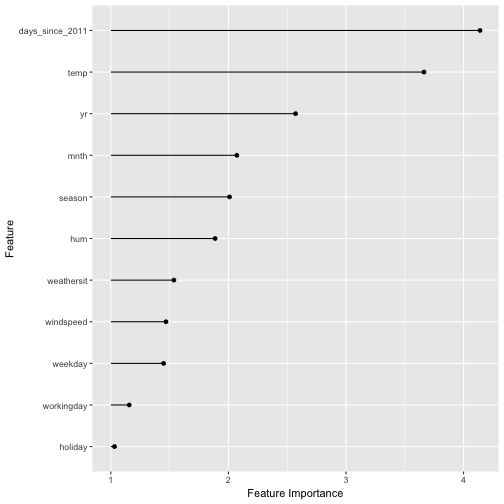
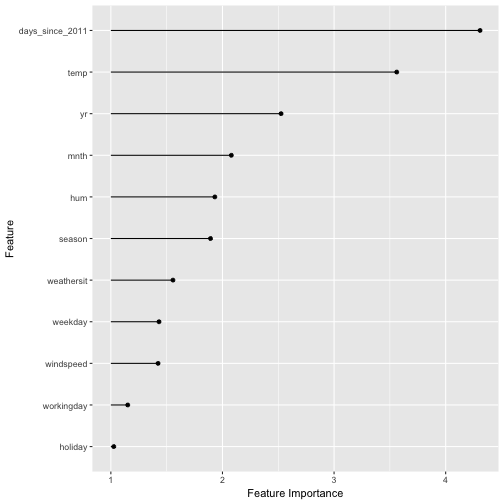
removes aligned

diff --git a/manuscript/04.3-interpretable-logistic.md b/manuscript/04.3-interpretable-logistic.md
@@ -1,4 +1,49 @@
 
+
+
+## Logistic Regression {#logistic}
+Logistic regression is the linear regression model made fit for classification problems.
+
+### What's Wrong with Linear Regression Models for Classification?
+The  linear regression model works well in regression setups, but fails in the classification case.
+Why is that?
+In case of two classes, you could label one of the classes with 0 and the other with 1 and use a linear model on it and it would estimate the weights for you.
+There are just a few problems with that approach:
+
+- A linear model does not output probabilities, but it treats the classes as numbers (0 and 1) and fits the best hyperplane (if you have one feature, it's a line) that minimises the distances between the points and the hyperplane.
+So it simply interpolates between the points, but there is no meaning in it and you cannot interpret it as probabilities.
+- Also a linear model will extrapolate the features and give you values below zero and above one, which are not meaningful and should tell you that there might be a more clever approach to classification.
+- Since the predicted outcome is not a probability but some linear interpolation between points there is no meaningful threshold at which you can distinguish one class from the other.
+A good illustration of this issue was given on [Stackoverflow](https://stats.stackexchange.com/questions/22381/why-not-approach-classification-through-regression), which I reproduced in Figure \@ref(fig:linear-class-threshold)
+- Linear models don't extend to classification problems with multiple classes.
+You would have to start labeling the next class with a 2, then 3 and so on.
+The classes might not have any meaningful order, but the linear model would force a weird structure on the relationship between the features and your class predictions.
+So for a feature with a positive weight, the higher the value of that feature the more it contributes to the prediction of a class with a higher number, even if classes that happened to get a similar number are not related at all.
+
+
+![An illustration why linear regression does not work well in a binary classification setting. A linear model is fitted on artificial data for classifying a tumour as malignant (1) or benign (0), dependant on the size of the tumour. Each point is a tumour, the x-axis shows the size of the tumour, the y-axis the malignancy, points are slightly jittered to reduce over-plotting. The lines display the fitted curve from a linear model. In the data setting on the left, we can use 0.5 as a threshold for the predicted outcome of the linear model for separating benign from malignant tumours. After introducing a few more malignant tumour cases, especially with larger tumour sizes, the regression line shifts and a threshold of 0.5 does not separate the classes any longer.](images/linear-class-threshold-1.png)
+
+
+### Logistic Regression
+A solution for classification is logistic regression.
+Instead of fitting a straight line or hyperplane, the logistic regression model uses a non-linear function, the logistic function to squeeze the output of a linear equation between 0 and 1.
+The logistic function is defined as:
+{$$}\text{logistic}(\eta)=\frac{1}{1+exp(-\eta)}{/$$}
+And it looks like shown in Figure \@ref(fig:logistic-function).
+
+![The logistic function. It only outputs numbers between 0 and 1. At input 0 it outputs 0.5.](images/logistic-function-1.png)
+
+The step from linear regression models to logistic regression is kind of straightforward. In the linear regression model we modelled the relationship between the outcome and the features with a linear equation:
+{$$}\hat{y}_{i}=\beta_{0}+\beta_{1}x_{i,1}+\ldots+\beta_{p}x_{i,p}{/$$}
+For the classification we prefer probabilities, which are between 0 and 1, so we wrap the right side of the equation into the logistic regression function and like that force the output to only take on values between 0 and 1.
+{$$}P(y_{i}=1)=\frac{1}{1+exp(-(\beta_{0}+\beta_{1}x_{i,1}+\ldots+\beta_{p}x_{i,p}))}{/$$}
+
+Let's revisit the tumour size example from Figure \@ref(fig:linear-class-threshold) again.
+But now instead of the linear regression model, we use the logistic regression model:
+
+![The logistic regression model successfully finds the correct decision boundary to distinguish between malignant and benign tumours dependent on the size of the tumour in this example. The blue line is the logistic function shifted and squeezed so that it fits the data.](images/logistic-class-threshold-1.png)
+It works better with logistic regression and we can use 0.5 as a threshold in both cases. Including the additional points does not affect the estimated curve much.
+
 ### Interpretation
 The interpretation of the logistic regression weights differs from the linear regression case, because in logistic regression the outcome is a probability between 0 and 1, and the weights don't affect the probability linearly, but are squeezed through the logistic function.
 That's why we need to reformulate the equation for the interpretation, so that there is only the linear term left on the right side of the formula.
@@ -21,6 +66,50 @@ $$\frac{odds_{i,x_j+1}}{odds_i}=\frac{exp\left(\beta_{0}+\beta_{1}x_{i,1}+\ldots
 
 Using the rule that {$$}\frac{exp(a)}{exp(b)}=exp(a-b){/$$} gives us:
 
+{$$}\frac{odds_{i,x_j+1}}{odds_i}=exp\left(\beta_{0}+\beta_{1}x_{i,1}\ldots\beta_{j}(x_{i,j}+1)+\ldots+\beta_{i,p}x_{i,p}\right)-exp\left(\beta_{0}+\beta_{1}x_{i,1}+\ldots+\beta_{j}x_{i,j}+\ldots+\beta_{p}x_{i,p}\right){/$$}
 
+And then we can remove a lot of terms from the equation, which is convenient:
+{$$}\frac{odds_{i,x_j+1}}{odds_i}=exp\left(\beta_{j}(x_{i,j}+1)-\beta_{j}x_{i,j}\right)=exp\left(\beta_j\right){/$$}
 
+And we end up with something simple like {$$}\exp(\beta_j){/$$}.
+So a change of {$$}x_j{/$$} by one unit changes the odds ratio (multiplicatively) by a factor of {$$}\exp(\beta_j){/$$}.
+We could also interpret it this way:
+A change in {$$}x_j{/$$} by one unit changes the log odds ratio by {$$}\beta_j{/$$} units, but most people do the former because thinking about the {$$}log(){/$$} of something is known to be hard on the brain.
+Interpreting the odds ratio already needs a bit of getting used to.
+For example if you have odds of 2, it means that the probability for {$$}y_i=1{/$$} is twice as big as {$$}y_i=0{/$$}.
+If you have a {$$}\beta_j{/$$} (=odds ratio) of {$$}0.7{/$$}, then an increase in the respective {$$}x_j{/$$} by one unit multiplies the odds by {$$}\exp(0.7)\approx2{/$$} and the odds change to 4.
+But usually you don't deal with the odds and only interpret the {$$}\beta{/$$}'s as the odds ratios.
+Because for actually calculating the odds you would need to set a value for each feature {$$}x_j{/$$}, which only makes sense if you want to look at one specific instance of your dataset.
 
+Here are the interpretations for the logistic regression model with different feature types:
+
+- Numerical feature: For an increase of one unit of the feature {$$}x_{j}{/$$}, the estimated odds change (multiplicatively) by a factor of {$$}\exp(\beta_{j}){/$$}
+- Binary categorical feature: One of the two values of the feature is the reference level (in some languages the one that was coded in 0).
+A change of the feature {$$}x_{j}{/$$} from the reference level to the other level changes the estimated odds (multiplicatively) by a factor of {$$}\exp(\beta_{j}){/$$}
+- Categorical feature with many levels: One solution to deal with many possible feature values is to one-hot-encode them, meaning each level gets its own column.
+From a categorical feature with L levels, you only need L-1 columns, otherwise it is over-parameterised. The interpretation for each level is then according to the binary features.
+- Intercept {$$}\beta_{0}{/$$}: Given all numerical features are zero and the categorical features are at the reference level, the estimated odds are {$$}\exp(\beta_{0}){/$$}.
+The interpretation of {$$}\beta_{0}{/$$} is usually not relevant.
+
+### Example
+We use the logistic regression model to predict cervical cancer given some risk factors.
+The data are described in Chapter \@ref(cervical)
+
+|                            | Weight| Odds ratio| Std. Error|
+|:---------------------------|------:|----------:|----------:|
+|Intercept                   |   2.91|      18.36|       0.32|
+|Hormonal contraceptives y/n |   0.12|       1.12|       0.30|
+|Smokes y/n                  |  -0.26|       0.77|       0.37|
+|Num. of pregnancies         |  -0.04|       0.96|       0.10|
+|Num. of diagnosed STDs      |  -0.82|       0.44|       0.33|
+|Intrauterine device y/n     |  -0.62|       0.54|       0.40|
+
+Interpretation of a numerical feature ('Num. of diagnosed STDs'):
+An increase of the number of diagnosed STDs (sexually transmitted diseases) changes (decreases) the odds for cancer vs. no cancer multiplicatively by 0.44, given all other features stay the same.
+Keep in mind that correlation does not imply causation.
+No recommendation here to get STDs.
+
+Interpretation of a categorical feature ('Hormonal contraceptives y/n'):
+For women with hormonal contraceptives, the odds for cancer vs. no cancer are by a factor of 1.12 higher, compared to women without hormonal contraceptives, given all other features stay the same.
+
+Again as in the linear models, the interpretations are always coming with the clause that 'all other features stay the same'.

diff --git a/manuscript/04.5-interpretable-rulefit.md b/manuscript/04.5-interpretable-rulefit.md
@@ -42,36 +42,36 @@ If {$$}x_j{/$$} increases by one unit, the predicted outcome changes by {$$}\bet
 
 In this example, we use RuleFit to predict the number of bike rentals on a given day (see Chapter \@ref(bike-data)).
 The rules generated for the bike rental prediction task can be seen in Figure \@ref(fig:rulefit-example).
-The most important rule was: "days_since_2011 > 111 & weathersit %in% c("GOOD", "MISTY")" and the associated weight is 591.6.
+The most important rule was: "days_since_2011 > 111 & weathersit %in% c("GOOD", "MISTY")" and the associated weight is 689.4.
 The interpretation is:
-If days_since_2011 > 111 & weathersit %in% c("GOOD", "MISTY"), then the predicted number of bike rentals increases by 591.6, given all other features values stay fixed.
-In total,  360 such rules were created from the original 8 features.
+If days_since_2011 > 111 & weathersit %in% c("GOOD", "MISTY"), then the predicted number of bike rentals increases by 689.4, given all other features values stay fixed.
+In total,  332 such rules were created from the original 8 features.
 Quite a lot!
-But thanks to Lasso, only 39 of the 360 got a weight different from zero.
+But thanks to Lasso, only 40 of the 332 got a weight different from zero.
 
 
-|Description                                                                    | Weight| Importance| Std. Dev|
-|:------------------------------------------------------------------------------|------:|----------:|--------:|
-|days_since_2011 > 111 & weathersit %in% c("GOOD", "MISTY")                     |  591.6|      225.7|     0.38|
-|temp > 11.544151 & days_since_2011 > 554                                       |  580.8|      212.4|     0.37|
-|season %in% c("SUMMER", "FALL", "WINTER") & weathersit %in% c("GOOD", "MISTY") |  566.6|      252.0|     0.44|
-|temp <= 13.776651 & days_since_2011 <= 368                                     | -506.0|      216.9|     0.43|
-|days_since_2011 > 424 & temp > 15.6175                                         |  448.9|      195.3|     0.44|
-|days_since_2011 > 429 & temp > 4.494151                                        |  397.5|      194.5|     0.49|
-|temp <= 14.09 & temp <= 5.081651                                               | -323.8|      110.9|     0.34|
-|temp > 7.745 & days_since_2011 > 364                                           |  301.0|      147.0|     0.49|
-|temp <= 11.583349 & season %in% c("SPRING", "SUMMER")                          | -239.5|      104.9|     0.44|
-|temp <= 9.664151                                                               | -232.2|      108.2|     0.47|
-|days_since_2011 > 111 & weathersit %in% c("GOOD")                              |  218.3|      108.7|     0.50|
-|days_since_2011 > 105 & weathersit %in% c("GOOD", "MISTY")                     |  198.5|       74.3|     0.37|
-|days_since_2011 > 448 & weathersit %in% c("MISTY", "RAIN/SNOW/STORM")          | -195.5|       66.7|     0.34|
-|temp <= 13.776651 & temp <= 3.906651                                           | -192.9|       55.3|     0.29|
-|days_since_2011 > 430 & temp > 8.0975                                          |  158.0|       75.7|     0.48|
-|days_since_2011 > 411 & weathersit %in% c("GOOD")                              |  157.5|       71.2|     0.45|
-|temp > 8.184356 & days_since_2011 > 391                                        |  150.2|       72.7|     0.48|
-|temp <= 15.774151                                                              | -138.7|       69.4|     0.50|
-|days_since_2011 > 440 & temp > 11.544151                                       |   98.3|       45.2|     0.46|
-|days_since_2011 > 426 & temp > 4.494151                                        |   92.0|       45.1|     0.49|
+|Description                                                           | Weight| Importance| Std. Dev|
+|:---------------------------------------------------------------------|------:|----------:|--------:|
+|days_since_2011 > 111 & weathersit %in% c("GOOD", "MISTY")            |  689.4|      263.0|     0.38|
+|temp > 6.958267 & weathersit %in% c("GOOD", "MISTY")                  |  664.7|      280.4|     0.42|
+|temp <= 13.9725 & days_since_2011 <= 368                              | -567.6|      244.7|     0.43|
+|days_since_2011 > 430 & temp > 5.081651                               |  553.8|      270.8|     0.49|
+|temp > 15.663466 & days_since_2011 > 432                              |  495.9|      215.4|     0.43|
+|temp <= 6.954554 & temp > 3.945849                                    |  425.9|      135.9|     0.32|
+|temp > 12.719151 & days_since_2011 > 517                              |  388.3|      155.7|     0.40|
+|days_since_2011 > 440 & temp > 11.544151                              |  346.8|      159.4|     0.46|
+|days_since_2011 > 430 & temp <= 5.081651                              | -309.8|       39.4|     0.13|
+|temp > 11.583349 & weathersit %in% c("GOOD", "MISTY")                 |  290.6|      142.7|     0.49|
+|temp <= 12.758349 & days_since_2011 <= 387                            | -234.1|      101.9|     0.44|
+|temp <= 13.228349 & season %in% c("SPRING")                           | -232.0|       97.3|     0.42|
+|season %in% c("SUMMER", "FALL", "WINTER") & weathersit %in% c("GOOD") |  208.4|      104.2|     0.50|
+|temp > 8.184356 & days_since_2011 > 427                               |  205.9|       98.5|     0.48|
+|temp <= 16.0875                                                       | -164.8|       82.4|     0.50|
+|temp <= 9.664151                                                      | -158.1|       73.6|     0.47|
+|temp > 9.664151 & days_since_2011 > 397                               |  157.6|       74.7|     0.47|
+|temp <= 7.98 & season %in% c("SPRING", "SUMMER")                      | -139.9|       54.8|     0.39|
+|days_since_2011 > 111 & weathersit %in% c("GOOD")                     |  122.3|       60.9|     0.50|
+|temp <= 12.993349 & weathersit %in% c("RAIN/SNOW/STORM")              | -118.0|       14.4|     0.12|
 Computing the global feature importances reveals that temperature and the time trend are the most important features, see Figure \@ref(fig:rulefit-importance).
 The feature importance measurement includes the importance of the raw feature term and all the decision rules the feature appears in.
 

diff --git a/manuscript/05.6-agnostic-shapley.md b/manuscript/05.6-agnostic-shapley.md
@@ -94,25 +94,25 @@ Figure \@ref(fig:shapley-cervical-plot) visualizes the Shapley values, that are 
 |STDs..Time.since.first.diagnosis |  1.00|
 |STDs..Time.since.last.diagnosis  |  1.00|
 
-![Feature value contributions for woman 326 in the cervical cancer dataset. With a prediction of 0.50, this woman's cancer probability is 0.47 above the average prediction of 0.03. The feature value that increased the probability the most is the number of diagnosed STDs. The feature contributions sum up to the difference of actual and average prediction (0.47).](images/shapley-cervical-plot-1.png)
+![Feature value contributions for woman 326 in the cervical cancer dataset. With a prediction of 0.43, this woman's cancer probability is 0.41 above the average prediction of 0.02. The feature value that increased the probability the most is the number of diagnosed STDs. The feature contributions sum up to the difference of actual and average prediction (0.41).](images/shapley-cervical-plot-1.png)
 
 |feature                          |        phi|
 |:--------------------------------|----------:|
-|Age                              |  0.0293333|
-|First.sexual.intercourse         |  0.0646667|
+|Age                              |  0.0153333|
+|First.sexual.intercourse         |  0.0643333|
 |Hormonal.Contraceptives          |  0.0110000|
-|Hormonal.Contraceptives..years.  |  0.0476667|
-|IUD                              |  0.0016667|
-|IUD..years.                      |  0.0013333|
-|Num.of.pregnancies               |  0.0120000|
-|Number.of.sexual.partners        |  0.0533333|
-|STDs                             |  0.1080000|
-|STDs..Number.of.diagnosis        |  0.0656667|
-|STDs..Time.since.first.diagnosis |  0.0070000|
-|STDs..Time.since.last.diagnosis  |  0.0033333|
-|STDs..number.                    |  0.0843333|
-|Smokes                           | -0.0026667|
-|Smokes..years.                   | -0.0006667|
+|Hormonal.Contraceptives..years.  |  0.0310000|
+|IUD                              | -0.0013333|
+|IUD..years.                      |  0.0000000|
+|Num.of.pregnancies               |  0.0183333|
+|Number.of.sexual.partners        |  0.0343333|
+|STDs                             |  0.0730000|
+|STDs..Number.of.diagnosis        |  0.1426667|
+|STDs..Time.since.first.diagnosis |  0.0020000|
+|STDs..Time.since.last.diagnosis  | -0.0003333|
+|STDs..number.                    |  0.0320000|
+|Smokes                           |  0.0013333|
+|Smokes..years.                   |  0.0003333|
 
 
 
@@ -140,22 +140,22 @@ Figure \@ref(fig:shapley-bike-plot) shows the explanations created for the  Rand
 |windspeed       |16.62605        |
 |days_since_2011 |284             |
 
-![Feature value contributions for instance 285. With a predicted 2521 rented bikes, this day is -1985 below the average prediction of 4506. The feature values that had the most negative effects were the weather situation, humidity and the time trend (years since 2011). The temperature on that day had a positive effect compared to the average prediction. The feature contributions sum up to the difference of actual and average prediction (-1985).](images/shapley-bike-plot-1.png)
+![Feature value contributions for instance 285. With a predicted 2406 rented bikes, this day is -2100 below the average prediction of 4507. The feature values that had the most negative effects were the weather situation, humidity and the time trend (years since 2011). The temperature on that day had a positive effect compared to the average prediction. The feature contributions sum up to the difference of actual and average prediction (-2100).](images/shapley-bike-plot-1.png)
 
 
 |feature         |     phi|
 |:---------------|-------:|
-|days_since_2011 | -318.64|
-|holiday         |    0.00|
-|hum             | -971.22|
-|mnth            |   88.09|
-|season          |   47.20|
-|temp            |  479.99|
-|weathersit      | -652.07|
-|weekday         |   -1.28|
-|windspeed       |  -32.66|
-|workingday      |    5.97|
-|yr              | -265.16|
+|days_since_2011 | -704.18|
+|holiday         |    0.31|
+|hum             | -982.84|
+|mnth            |  -12.53|
+|season          |   13.64|
+|temp            |  261.10|
+|weathersit      | -864.92|
+|weekday         |  -77.35|
+|windspeed       |  -55.25|
+|workingday      |   -0.69|
+|yr              | -132.19|
 
 Be careful to interpret the Shapley value correctly:
 The Shapley value is the average contribution of a feature value towards the prediction in different coalitions.
@@ -171,7 +171,7 @@ Skip this part straight to 'Advantages and Disadvantages' if you are not interes
 We are interested in the effect each feature has on the prediction of a data point.
 In a linear model it is easy to calculate the individual effects.
 Here's how a linear model prediction looks like for one data instance:
-$$\hat{f}(x_{i\cdot}) = \hat{f}(x_{i1},\ldots,x_{ip})=\beta_0+\beta_{1}x_{i1}+\ldots+\beta_{p}x_{ip}$$
+{$$}\hat{f}(x_{i\cdot})=\hat{f}(x_{i1},\ldots,x_{ip})=\beta_0+\beta_{1}x_{i1}+\ldots+\beta_{p}x_{ip}{/$$}
 where {$$}x_{i\cdot}{/$$} is the instance for which we want to compute the feature effects.
 Each {$$}x_{ij}{/$$} is a feature value, with {$$}j\in\{1,\ldots,p\}{/$$}.
 The {$$}\beta_j{/$$} are the weights corresponding to {$$}x_{ij}{/$$}.

diff --git a/manuscript/05.4-agnostic-permfeatimp.md b/manuscript/05.4-agnostic-permfeatimp.md
@@ -47,12 +47,12 @@ Features that are associated model error increase by a factor of 1 (= no change)
 
 |feature                          | original.error| permutation.error| importance|
 |:--------------------------------|--------------:|-----------------:|----------:|
-|STDs                             |           0.34|              0.40|       1.19|
-|Hormonal.Contraceptives..years.  |           0.34|              0.40|       1.18|
+|STDs                             |           0.34|              0.45|       1.31|
+|Hormonal.Contraceptives..years.  |           0.34|              0.40|       1.19|
 |Age                              |           0.34|              0.38|       1.11|
-|First.sexual.intercourse         |           0.34|              0.34|       1.01|
+|First.sexual.intercourse         |           0.34|              0.35|       1.03|
 |Smokes..years.                   |           0.34|              0.34|       1.01|
-|IUD..years.                      |           0.34|              0.34|       1.01|
+|IUD..years.                      |           0.34|              0.34|       1.00|
 |Number.of.sexual.partners        |           0.34|              0.34|       1.00|
 |Hormonal.Contraceptives          |           0.34|              0.34|       1.00|
 |IUD                              |           0.34|              0.34|       1.00|
@@ -63,7 +63,7 @@ Features that are associated model error increase by a factor of 1 (= no change)
 |STDs..number.                    |           0.34|              0.34|       1.00|
 |Smokes                           |           0.34|              0.34|       1.00|
 
-The feature with the highest importance was  associated with an error increase of 1.19 after permutation.
+The feature with the highest importance was  associated with an error increase of 1.31 after permutation.
 
 **Bike rentals (Classification)**
 
@@ -77,17 +77,17 @@ Figure \@ref(fig:importance-bike) and Table \@ref(tab:importance-bike-table) sho
 
 |feature         | original.error| permutation.error| importance|
 |:---------------|--------------:|-----------------:|----------:|
-|days_since_2011 |         209.75|            868.47|       4.14|
-|temp            |         209.75|            768.41|       3.66|
-|yr              |         209.75|            539.35|       2.57|
-|mnth            |         209.75|            434.59|       2.07|
-|season          |         209.75|            421.47|       2.01|
-|hum             |         209.75|            395.80|       1.89|
-|weathersit      |         209.75|            322.15|       1.54|
-|windspeed       |         209.75|            308.05|       1.47|
-|weekday         |         209.75|            303.83|       1.45|
-|workingday      |         209.75|            242.54|       1.16|
-|holiday         |         209.75|            216.33|       1.03|
+|days_since_2011 |         209.26|            901.54|       4.31|
+|temp            |         209.26|            745.31|       3.56|
+|yr              |         209.26|            528.44|       2.53|
+|mnth            |         209.26|            435.16|       2.08|
+|hum             |         209.26|            404.22|       1.93|
+|season          |         209.26|            396.14|       1.89|
+|weathersit      |         209.26|            325.68|       1.56|
+|weekday         |         209.26|            299.57|       1.43|
+|windspeed       |         209.26|            297.79|       1.42|
+|workingday      |         209.26|            240.91|       1.15|
+|holiday         |         209.26|            214.75|       1.03|
 
 A positive aspect of using the error ratio instead of the error difference is that the feature importance measurements are comparable across different problems. 
 You can see that the importance of the most important features in the bike rental prediction task is 2 to 3 times higher than in the cervical cancer prediction task. 
